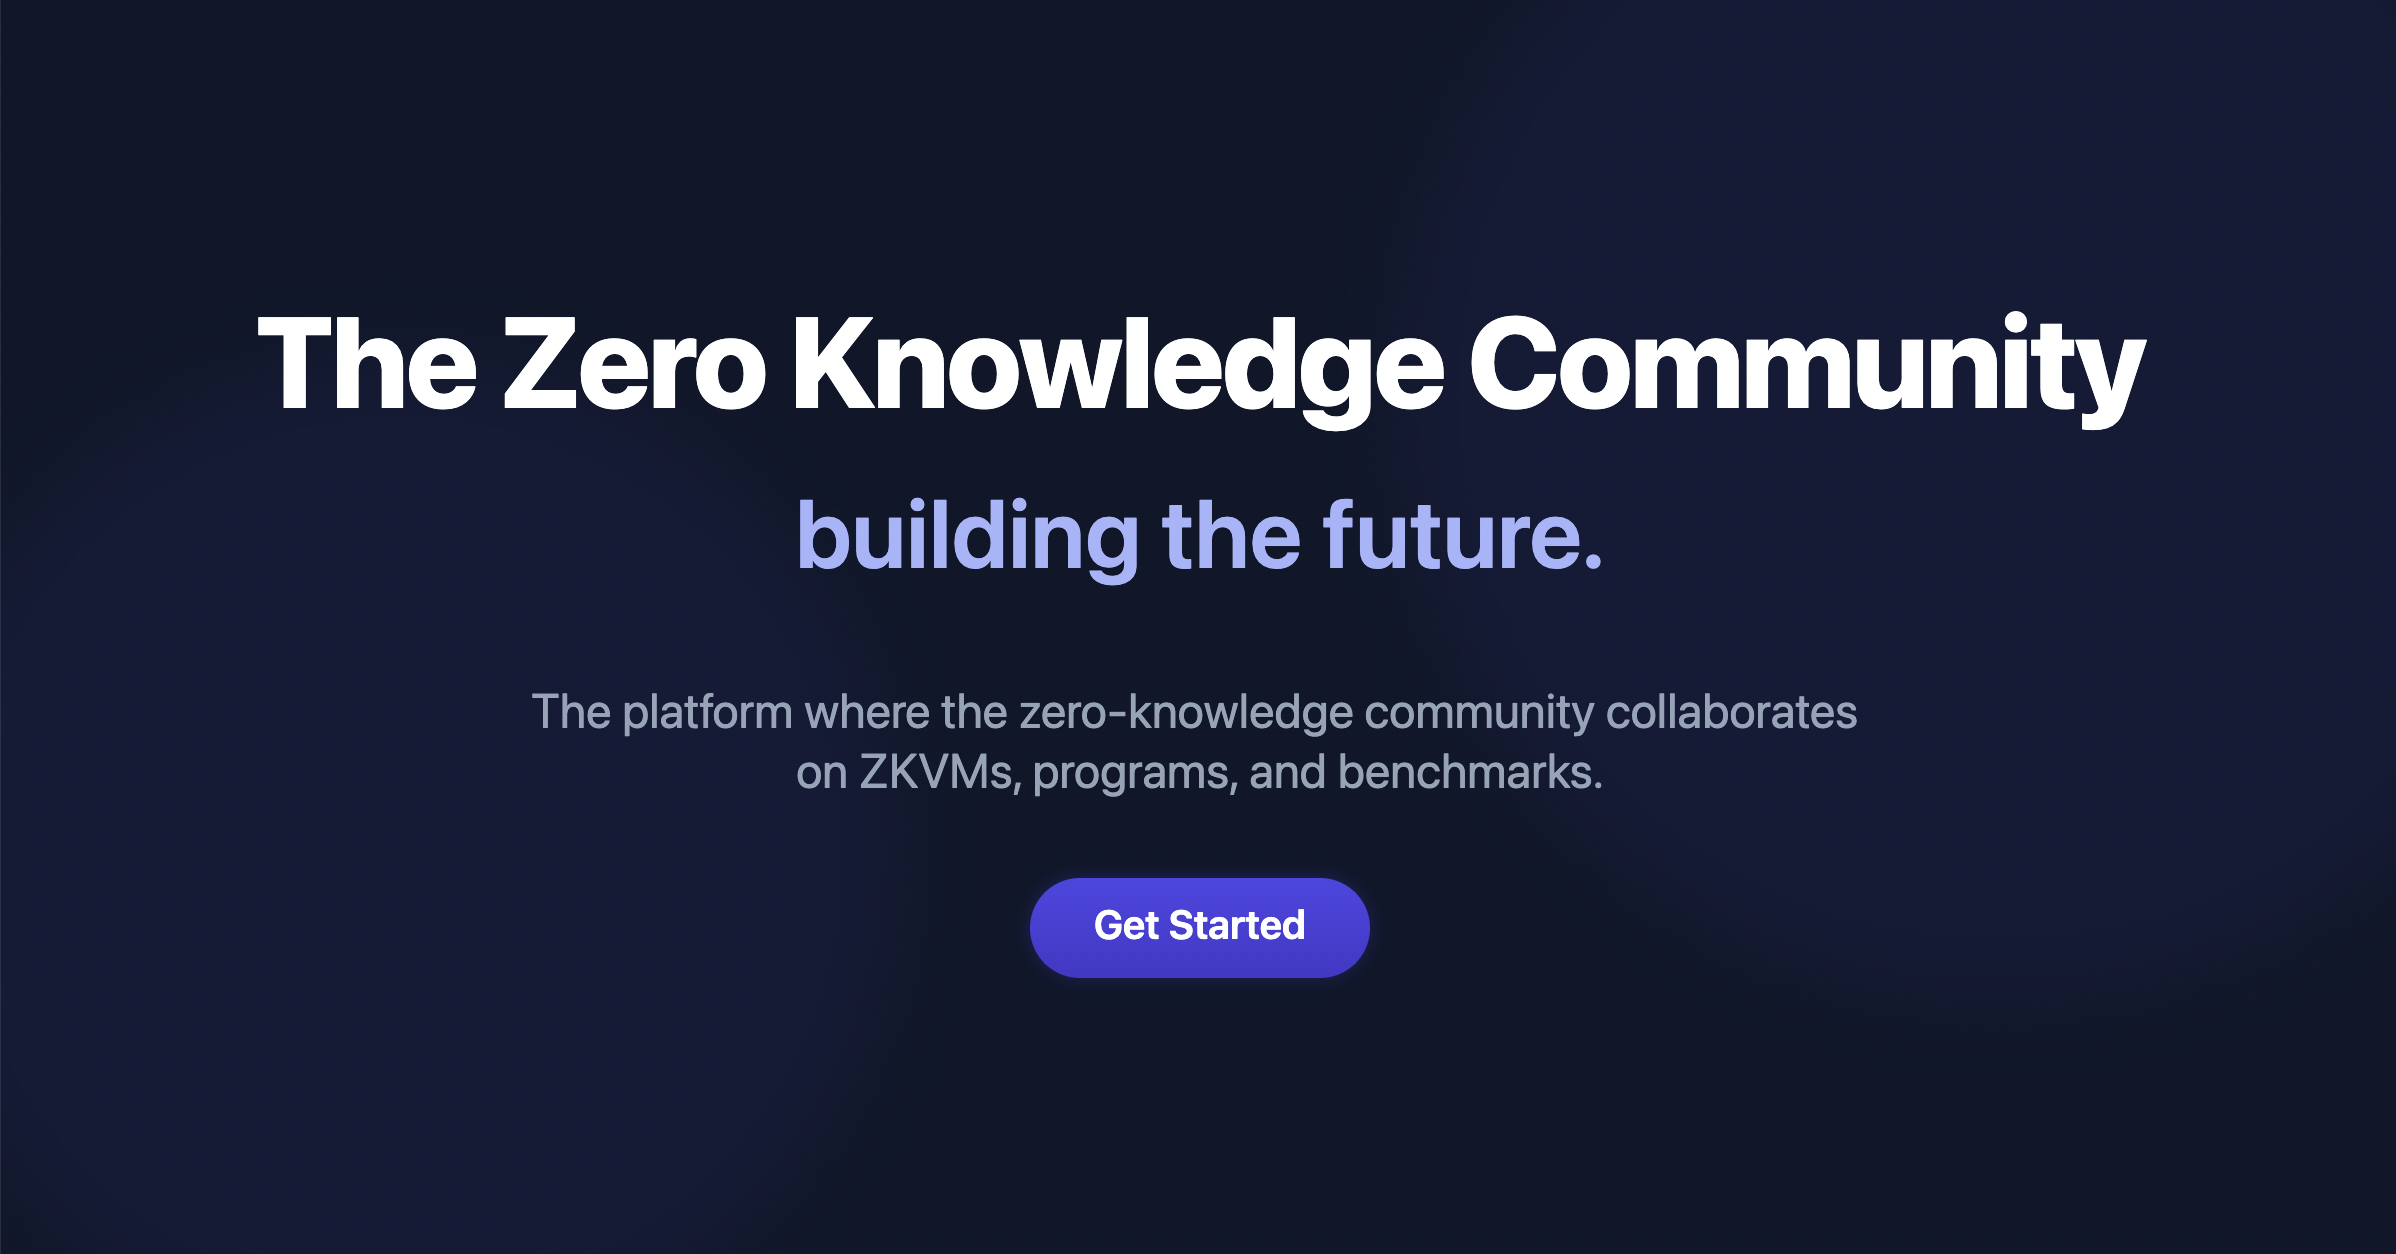
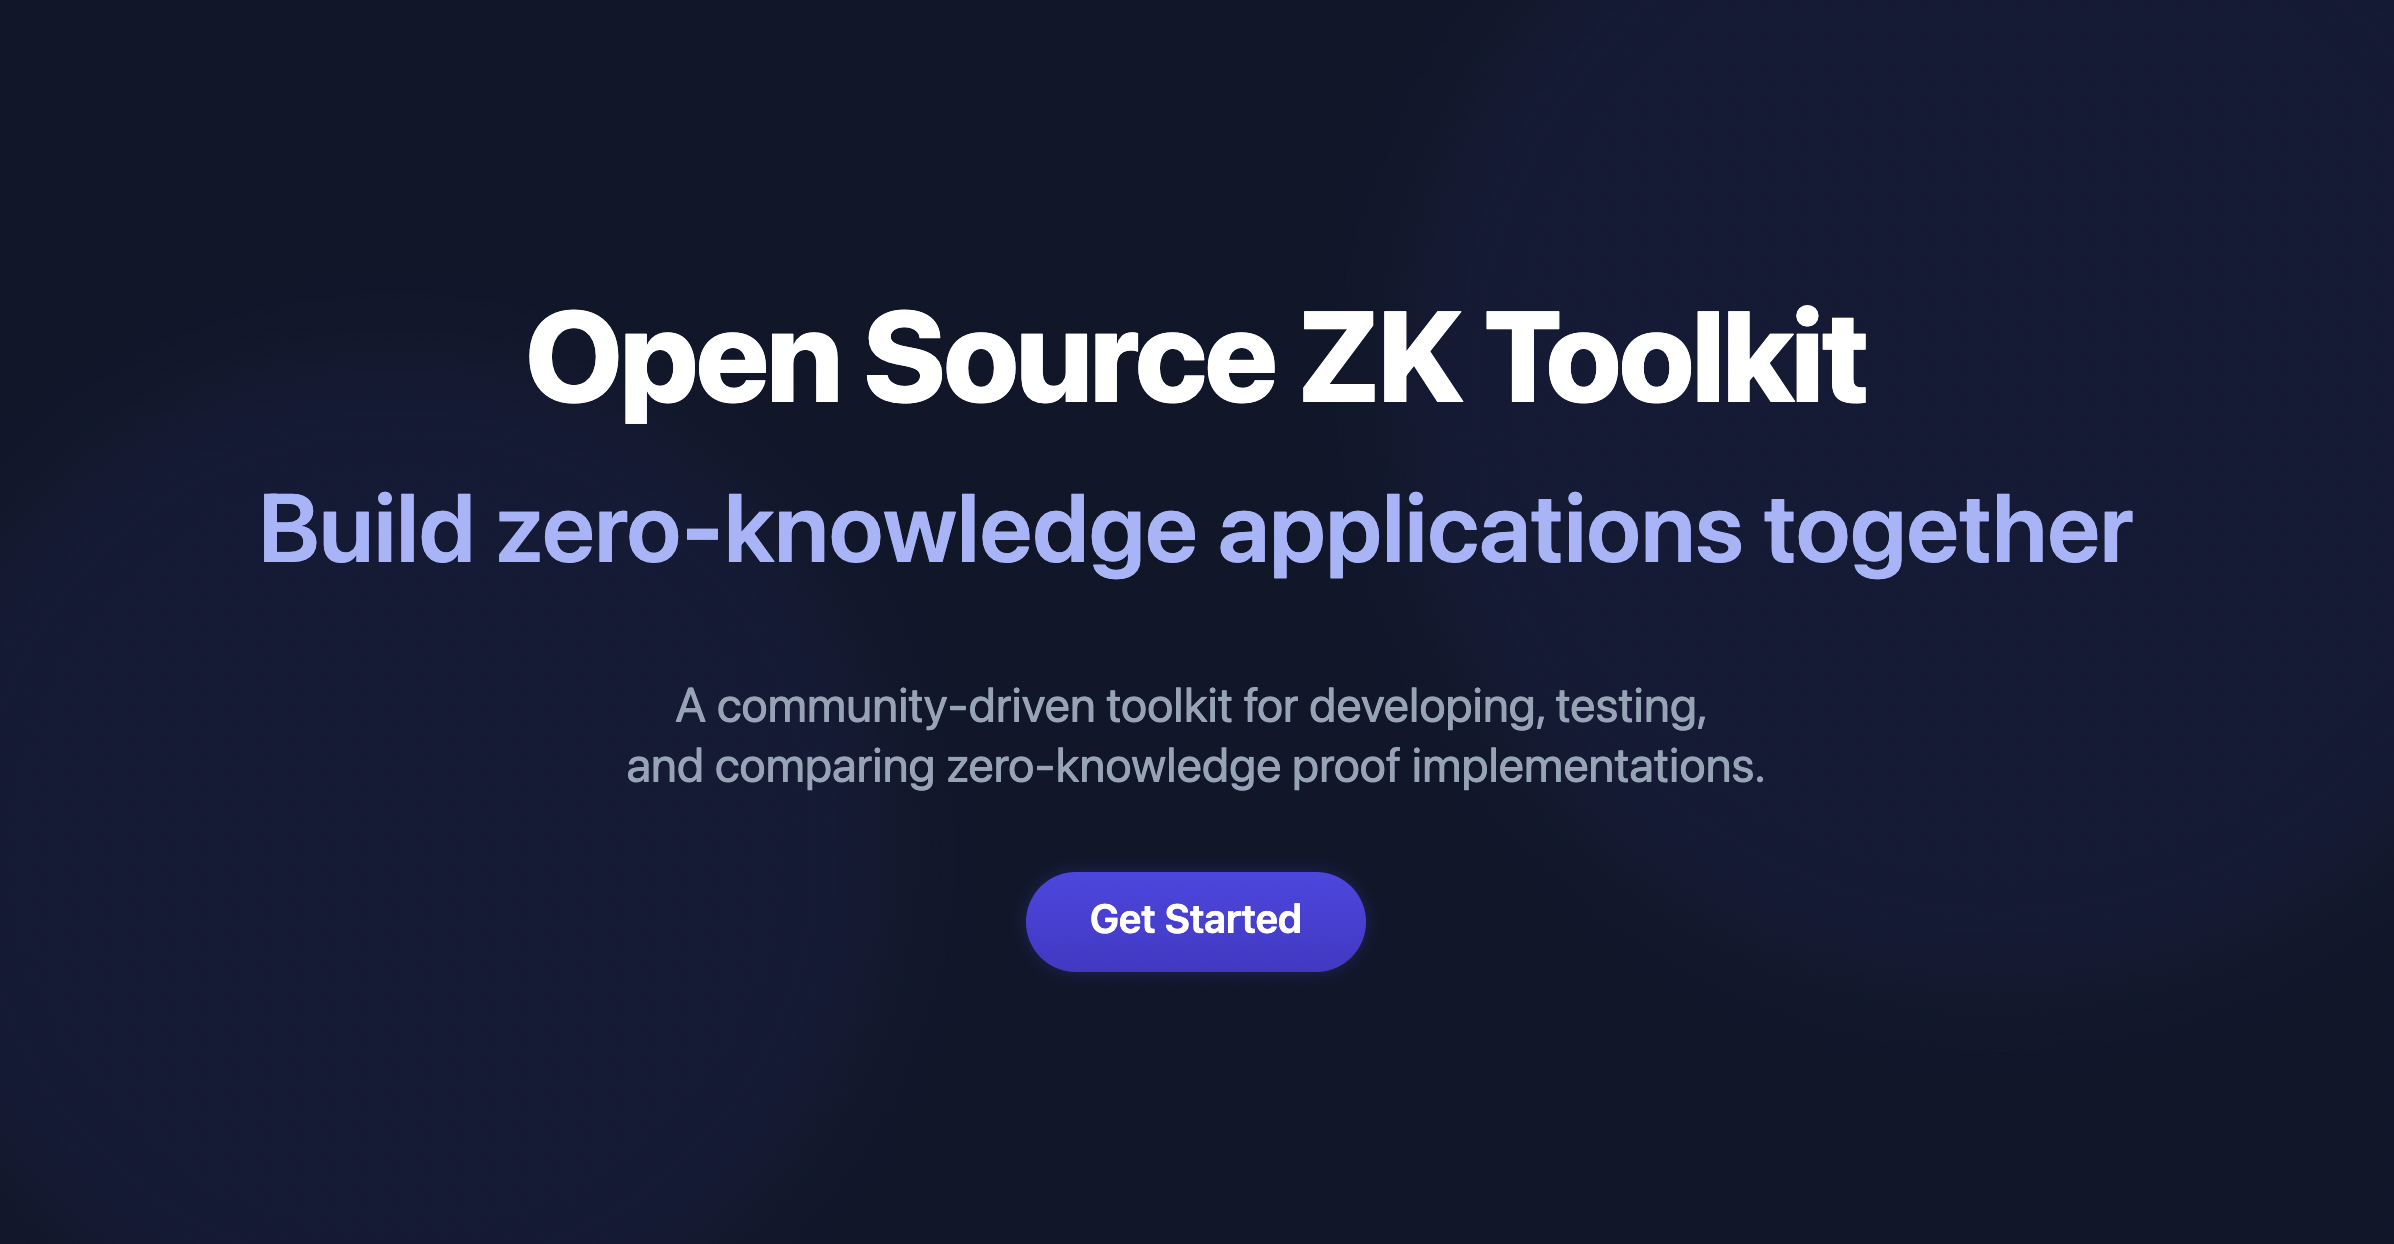
tagline

diff --git a/public/index.html b/public/index.html
@@ -7,22 +7,22 @@
     <meta name="theme-color" content="#000000" />
     
     <!-- Primary Meta Tags -->
-    <title>ProofLab - The Zero Knowledge Community</title>
-    <meta name="title" content="ProofLab - The Zero Knowledge Community">
-    <meta name="description" content="The platform where the zero-knowledge community collaborates on ZKVMs, programs, and benchmarks.">
+    <title>ProofLab - Open Source ZK Toolkit</title>
+    <meta name="title" content="ProofLab - Open Source ZK Toolkit">
+    <meta name="description" content="A community-driven toolkit for developing, testing, and comparing zero-knowledge proof implementations.">
 
     <!-- Open Graph / Facebook / iMessage -->
     <meta property="og:type" content="website">
     <meta property="og:url" content="https://prooflab.dev">
-    <meta property="og:title" content="ProofLab - The Zero Knowledge Community">
-    <meta property="og:description" content="The platform where the zero-knowledge community collaborates on ZKVMs, programs, and benchmarks.">
+    <meta property="og:title" content="ProofLab - Open Source ZK Toolkit">
+    <meta property="og:description" content="A community-driven toolkit for developing, testing, and comparing zero-knowledge proof implementations.">
     <meta property="og:image" content="https://prooflab.dev/social-preview.png">
 
     <!-- Twitter -->
     <meta property="twitter:card" content="summary_large_image">
     <meta property="twitter:url" content="https://prooflab.dev">
-    <meta property="twitter:title" content="ProofLab - The Zero Knowledge Community">
-    <meta property="twitter:description" content="The platform where the zero-knowledge community collaborates on ZKVMs, programs, and benchmarks.">
+    <meta property="twitter:title" content="ProofLab - Open Source ZK Toolkit">
+    <meta property="twitter:description" content="A community-driven toolkit for developing, testing, and comparing zero-knowledge proof implementations.">
     <meta property="twitter:image" content="https://prooflab.dev/social-preview.png">
     <meta name="twitter:creator" content="@connerswann">
 

diff --git a/src/components/Home/Home.js b/src/components/Home/Home.js
@@ -358,11 +358,11 @@ const Home = () => {
         <div className="relative max-w-7xl mx-auto px-4 sm:px-6 lg:px-8">
           <div className="pt-20 pb-16 text-center">
             <h1 className="text-4xl font-bold tracking-tight text-white sm:text-5xl md:text-6xl">
-              <span className="block">The Zero Knowledge Community</span>
-              <span className="block text-indigo-400 mt-2">building the future.</span>
+              <span className="block">Open Source ZK Toolkit</span>
+              <span className="block text-indigo-400 mt-2">Build zero-knowledge applications together</span>
             </h1>
             <p className="mt-6 max-w-2xl mx-auto text-xl text-gray-300">
-              The platform where the zero-knowledge community collaborates on ZKVMs, programs, and benchmarks.
+              A community-driven toolkit for developing, testing, and comparing zero-knowledge proof implementations.
             </p>
             <div className="mt-8 flex justify-center space-x-4">
               <Link
